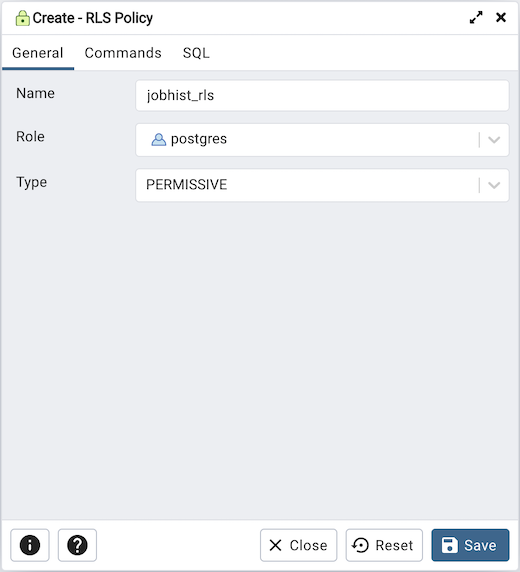
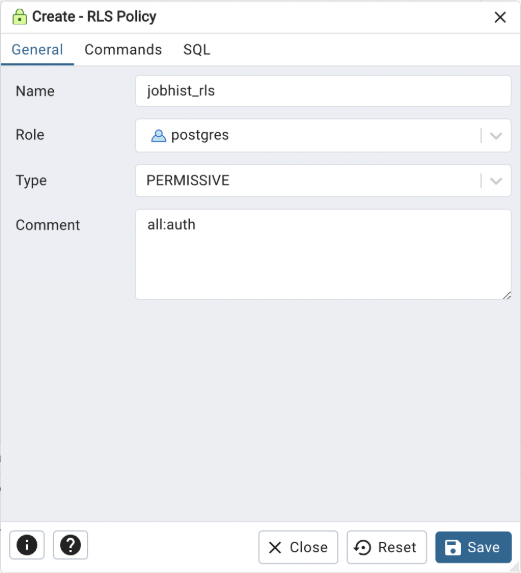
Add support for comments on RLS policy object. #7414

diff --git a/web/pgadmin/browser/server_groups/servers/databases/schemas/tables/row_security_policies/static/js/row_security_policy.ui.js b/web/pgadmin/browser/server_groups/servers/databases/schemas/tables/row_security_policies/static/js/row_security_policy.ui.js
@@ -123,6 +123,10 @@ export default class RowSecurityPolicySchema extends BaseUISchema {
           return obj.nodeInfo.server.version >= 100000;
         },
       },
+      {
+        id: 'description', label: gettext('Comment'), type: 'multiline',
+        mode: ['properties', 'create', 'edit'],
+      }
     ];
   }
 }

diff --git a/web/pgadmin/browser/server_groups/servers/databases/schemas/tables/row_security_policies/__init__.py b/web/pgadmin/browser/server_groups/servers/databases/schemas/tables/row_security_policies/__init__.py
@@ -357,6 +357,17 @@ class RowSecurityView(PGChildNodeView):
         data = request.form if request.form else json.loads(
             request.data
         )
+        for k, v in data.items():
+            try:
+                # comments should be taken as is because if user enters a
+                # json comment it is parsed by loads which should not happen
+                if k in ('description',):
+                    data[k] = v
+                else:
+                    data[k] = json.loads(v)
+            except (ValueError, TypeError, KeyError):
+                data[k] = v
+
         data['schema'] = self.schema
         data['table'] = self.table
         for arg in required_args:
@@ -421,16 +432,22 @@ class RowSecurityView(PGChildNodeView):
             # Most probably this is due to error
             if not isinstance(sql, str):
                 return sql
+
             status, res = self.conn.execute_scalar(sql)
             if not status:
                 return internal_server_error(errormsg=res)
+
+            other_node_info = {}
+            if 'description' in data:
+                other_node_info['description'] = data['description']
 
             return jsonify(
                 node=self.blueprint.generate_browser_node(
                     plid,
                     tid,
                     name,
-                    icon="icon-row_security_policy"
+                    icon="icon-row_security_policy",
+                    **other_node_info
                 )
             )
 

diff --git a/web/pgadmin/browser/server_groups/servers/databases/schemas/tables/row_security_policies/tests/test_rls_add.py b/web/pgadmin/browser/server_groups/servers/databases/schemas/tables/row_security_policies/tests/test_rls_add.py
@@ -61,6 +61,8 @@ class RulesAddTestCase(BaseTestGenerator):
         """This function will Policy under table node."""
         self.test_data['name'] = \
             "test_policy_add_%s" % (str(uuid.uuid4())[1:8])
+        self.test_data['description'] = \
+            "test_comment_add_%s" % (str(uuid.uuid4())[1:8])
 
         if hasattr(self, "owner_policy"):
             self.test_data['policyowner'] = self.role_name

diff --git a/docs/en_US/rls_policy_dialog.rst b/docs/en_US/rls_policy_dialog.rst
@@ -21,6 +21,7 @@ Use the fields in the *General* tab to define the RLS Policy:
 * Use the *Name* field to add a descriptive name for the RLS Policy. The name will be displayed in the *pgAdmin* tree control.
 * Use the drop-down listbox next to *Role* to select the Role to which the RLS Policy is to be applied.
 * Use the drop-down listbox next to *Type* to select the type of the policy.
+* Store notes about the policy in the Comment field.
 
 Click the *Commands* tab to continue.
 
